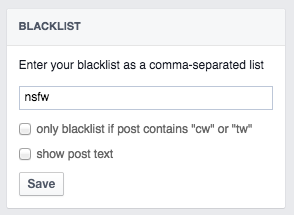
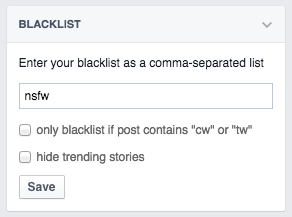
added instructions on site
also updated version number

diff --git a/web/index.html b/web/index.html
@@ -67,6 +67,20 @@
         margin-bottom:0.75em;
     }
     
+    sup {
+        vertical-align:top;
+        font-size:0.72em;
+    }
+    
+    hr {
+        width:50%;
+        height:1px;
+        background:#ddd;
+        margin:0 auto;
+        margin-bottom:1.1em;
+        margin-top:-0.3em;
+    }
+    
     section:after {
         clear:both;
         float:none;
@@ -78,7 +92,7 @@
         margin-right:2px;
     }
     
-    footer {position:absolute;bottom:10px;width:100%;}
+    footer {position:relative;bottom:20px;width:100%;}
     footer p {text-align:center;font-size:13px;opacity:0.7;}
     footer p a {color:#4e5665;text-decoration:none;}
     
@@ -87,15 +101,14 @@
         header img.logo {width:50%;}
         header h1 {font-size:3em;}
         header h2 {font-size:1.2em;}
-        section {max-width:405px;margin-bottom:440px;}
-        section article {margin-top:20px;}
+        section {max-width:405px;}
+        section article {margin-top:20px;float:none;}
+        section img.screenshot {float:none;}
+        section article.float {float:none;}
+        section.instructions {margin-top:-100px;}
     
     }
-    
-    @media only screen and (max-height:820px) {
-        footer {position:relative;}
-    }
-    
+        
     </style>
     
 </head>
@@ -121,15 +134,15 @@
         <article>
             <h3>Instructions</h3>
             <p>When you install Blacklist, refresh Facebook- 
-            <b>you'll find the options under the right-hand sidebar</b>.
-            On profile pages, the options are in the left sidebar (sometimes).</p>
-            <p>Add the words you want to blacklist as a comma-separated list.</p>
-            <p>You can choose to only hide images, or hide the entire post. You can also
-            choose to only hide posts that contain "cw" or "tw" (which stand for content
-            warning and trigger warning, respectively)- some Facebook groups use these,
-            but your friends probably don't, so if you don't know what that means, 
-            don't worry about it.</p>
+            <b>you'll find the options under the right-hand sidebar</b> on the home page. 
+            Add the words you want to blacklist as a comma-separated list.</p>
+            <p>You can also choose to hide the Trending stories in your sidebar and/or only 
+            blacklist posts which also contain a "cw" or "tw". <sup>[1]</sup> </p>
             <p>Extensions for Safari and Firefox are coming soon.</p>
+            <hr>
+            <p><small>1. These stand for "content warning" and "trigger warning", 
+            respectively. Some Facebook groups use these, but if your friends don't, 
+            don't worry about it, just keep it unchecked.</small></p>
         </article>
     </section>
     <footer><p><a href="http://bldwn.co/">bldwn.co</a></p></footer>
